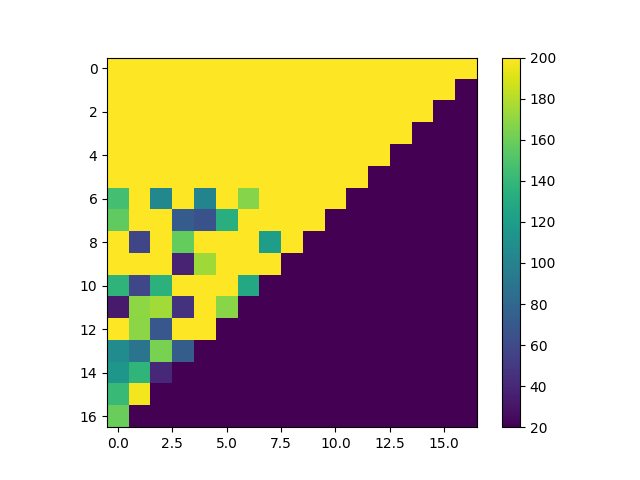
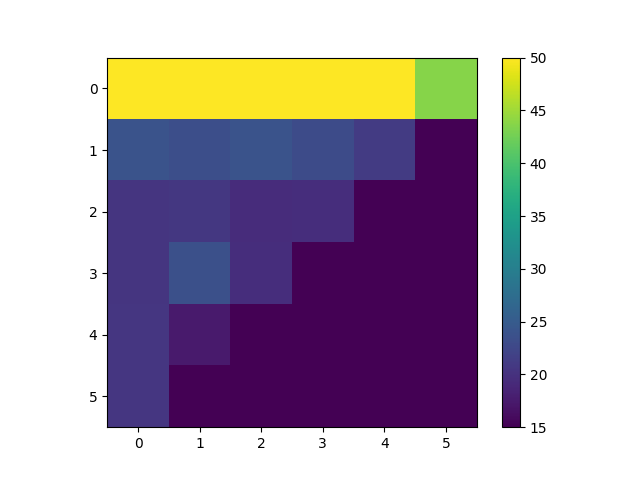
llc_finished

diff --git a/scripts/llc/extract.py b/scripts/llc/extract.py
@@ -11,7 +11,7 @@ def find_second_smallest(numbers):
 def main():
     count = 0
     results = []
-    with open('../kuber-deploy/test_rps-searchaway.txt', 'r') as file:
+    with open('./llc_sweep-utl5-1.txt', 'r') as file:
         lines = file.readlines()
         for i in range(len(lines)):
             if "new_config" in lines[i]:
@@ -24,21 +24,22 @@ def main():
                         print(f"Not enough numbers at {count} to find the latency.")
                 count += 1
     print(results)
-    # final_array = np.zeros((17, 17))
-    # c = 0
-    # # no_part_result = results[0]
-    # # c = 1
-    # row_len = 17 # a bug: the third partition will never be 1
-    # while row_len > 0:
-    #     print(row_len, c)
-    #     for i in range(c, c+row_len):
-    #         final_array[17-row_len][i-c] = results[i]
-    #     c = c+row_len
-    #     row_len -= 1
-    # print(final_array)
-    # plt.imshow(final_array, cmap='viridis', interpolation='nearest', vmin=20, vmax=200)
-    # plt.colorbar()
-    # plt.savefig('heatmap.png')
+    arr_size = 6
+    final_array = np.zeros((arr_size, arr_size))
+    c = 0
+    # no_part_result = results[0]
+    # c = 1
+    row_len = arr_size 
+    while row_len > 0:
+        print(row_len, c)
+        for i in range(c, c+row_len):
+            final_array[i-c][row_len-1-(i-c)] = results[i]
+        c = c+row_len
+        row_len -= 1
+    print(final_array)
+    plt.imshow(final_array, cmap='viridis', interpolation='nearest', vmin=15, vmax=50)
+    plt.colorbar()
+    plt.savefig('heatmap.png')
 
 
 
